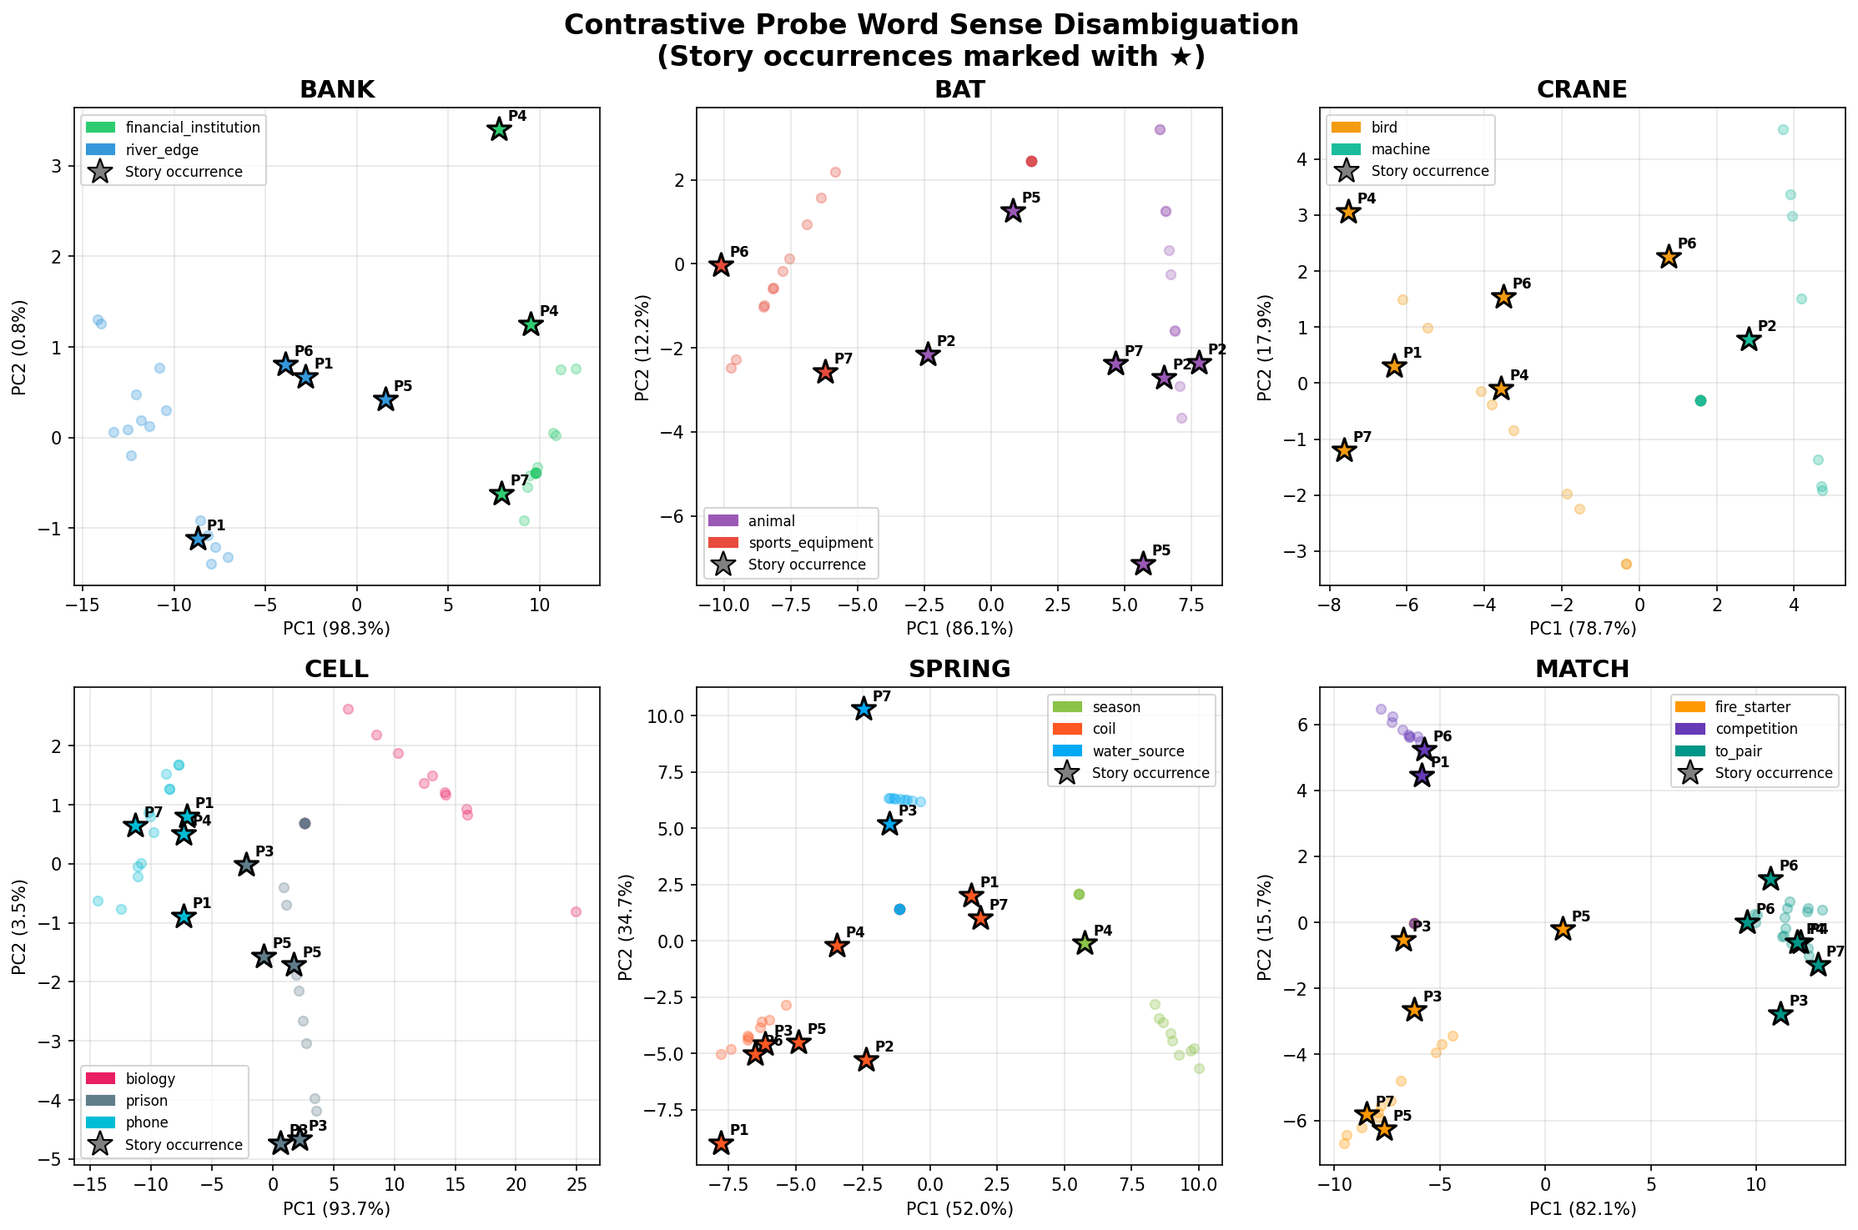
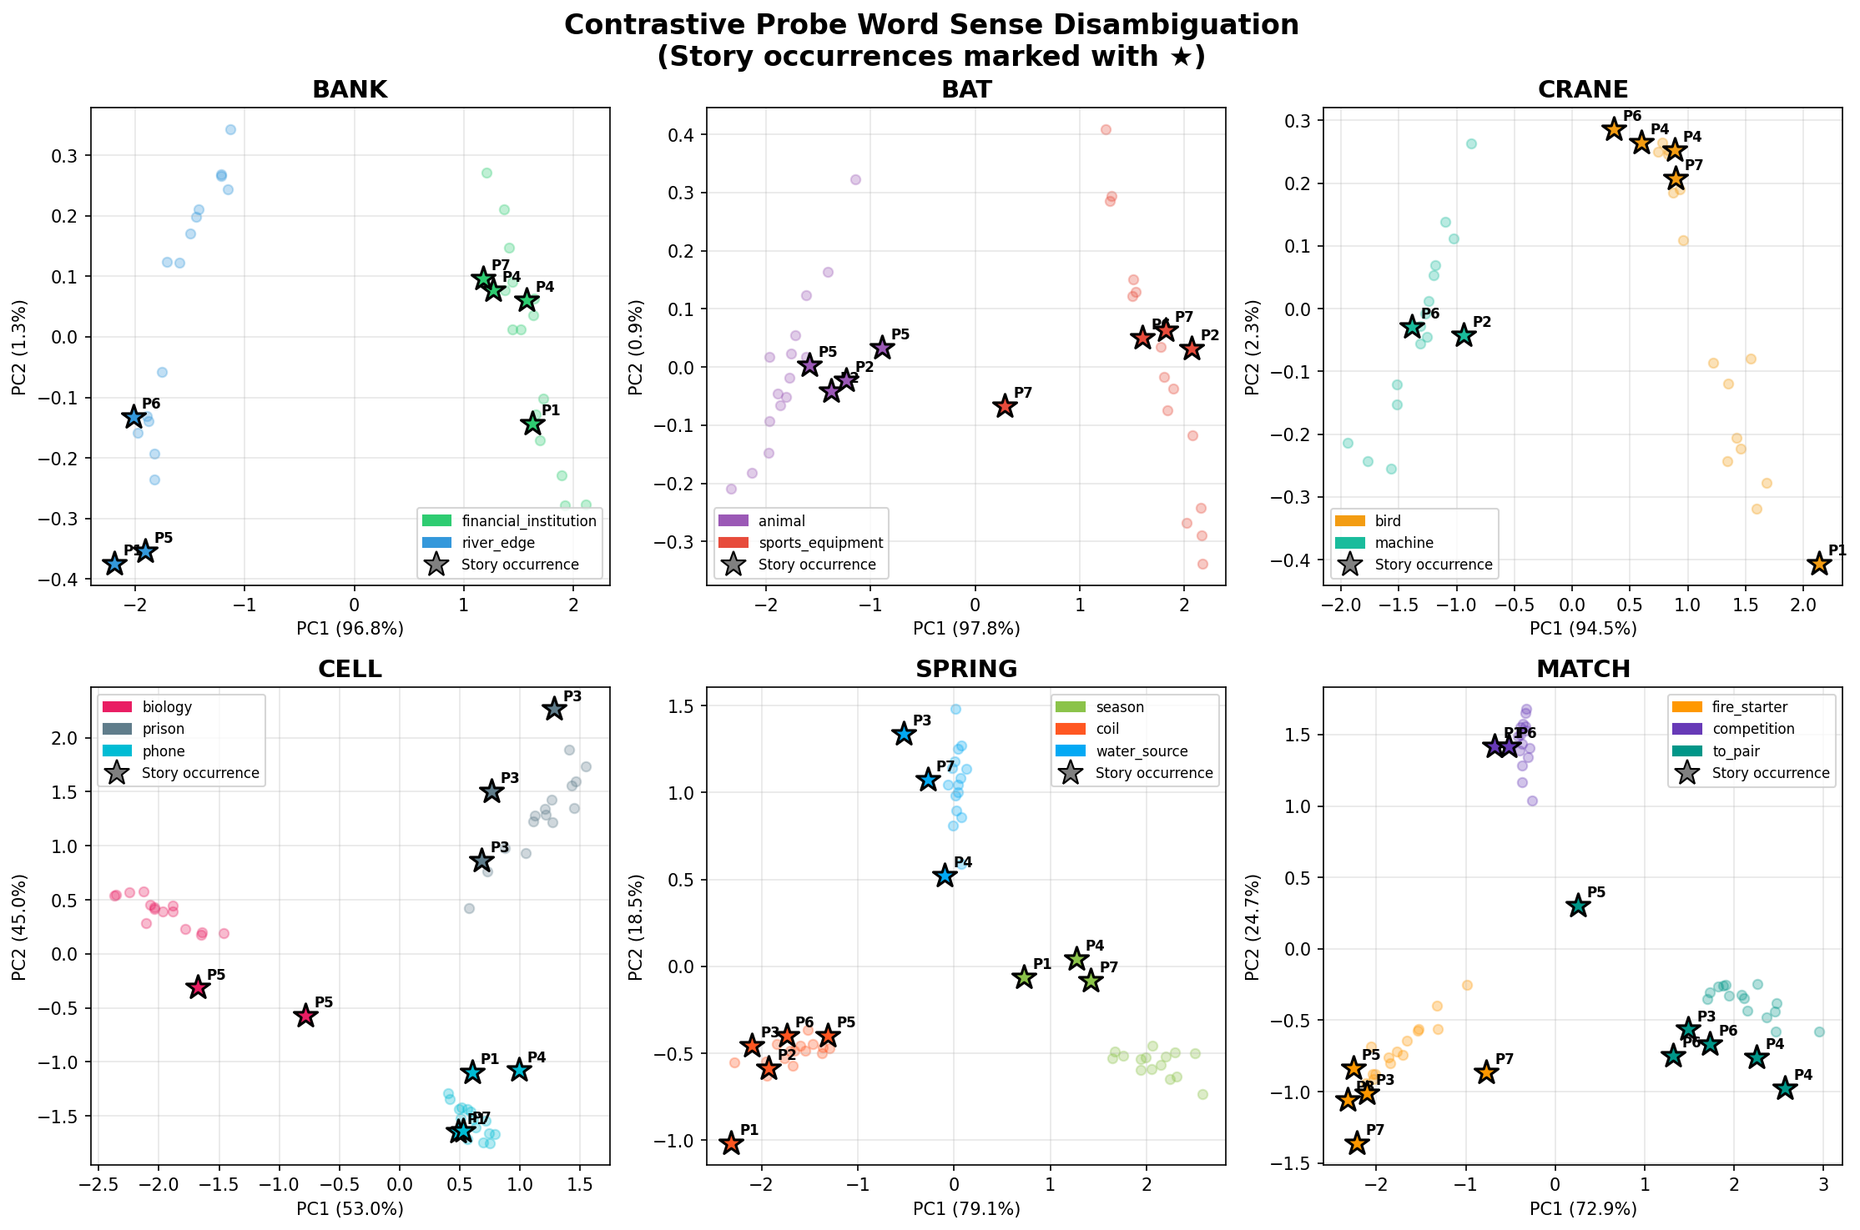
good performance with BERT

diff --git a/polysem/story_annotated.html b/polysem/story_annotated.html
@@ -20,13 +20,13 @@
 
     <div class="legend">
 <div class="legend-section"><span class="legend-title">BANK:</span><div class="legend-item"><div class="legend-color" style="background: #2ecc71"></div>financial institution</div><div class="legend-item"><div class="legend-color" style="background: #3498db"></div>river edge</div></div><div class="legend-section"><span class="legend-title">BAT:</span><div class="legend-item"><div class="legend-color" style="background: #9b59b6"></div>animal</div><div class="legend-item"><div class="legend-color" style="background: #e74c3c"></div>sports equipment</div></div><div class="legend-section"><span class="legend-title">CRANE:</span><div class="legend-item"><div class="legend-color" style="background: #f39c12"></div>bird</div><div class="legend-item"><div class="legend-color" style="background: #1abc9c"></div>machine</div></div><div class="legend-section"><span class="legend-title">CELL:</span><div class="legend-item"><div class="legend-color" style="background: #e91e63"></div>biology</div><div class="legend-item"><div class="legend-color" style="background: #607d8b"></div>prison</div><div class="legend-item"><div class="legend-color" style="background: #00bcd4"></div>phone</div></div><div class="legend-section"><span class="legend-title">SPRING:</span><div class="legend-item"><div class="legend-color" style="background: #8bc34a"></div>season</div><div class="legend-item"><div class="legend-color" style="background: #ff5722"></div>coil</div><div class="legend-item"><div class="legend-color" style="background: #03a9f4"></div>water source</div></div><div class="legend-section"><span class="legend-title">MATCH:</span><div class="legend-item"><div class="legend-color" style="background: #ff9800"></div>fire starter</div><div class="legend-item"><div class="legend-color" style="background: #673ab7"></div>competition</div><div class="legend-item"><div class="legend-color" style="background: #009688"></div>to pair</div></div></div>
-<div class="paragraph"><strong>Paragraph 1:</strong> Last <span class="word" style="background: #ff5722; color: white;" title="coil (80%)">spring</span>, I sat on the <span class="word" style="background: #3498db; color: white;" title="river_edge (100%)">bank</span> of the river watching a <span class="word" style="background: #f39c12; color: white;" title="bird (100%)">crane</span> wade through the shallows, hunting for frogs. My <span class="word" style="background: #00bcd4; color: white;" title="phone (100%)">cell</span> buzzed in my pocket—a text from my brother asking if I'd watched the tennis <span class="word" style="background: #673ab7; color: white;" title="competition (100%)">match</span> last night. I hadn't; I'd been too busy at the <span class="word" style="background: #3498db; color: white;" title="river_edge (100%)">bank</span> trying to sort out a loan for the new house. The loan officer's desk had a broken <span class="word" style="background: #ff5722; color: white;" title="coil (100%)">spring</span> in the chair, and it squeaked every time she leaned forward to check her <span class="word" style="background: #00bcd4; color: white;" title="phone (100%)">cell</span> for messages.</div>
-<div class="paragraph"><strong>Paragraph 2:</strong> The construction site next door had a massive <span class="word" style="background: #1abc9c; color: white;" title="machine (100%)">crane</span> lifting steel beams, and I remember thinking how strange it was that we use the same word for that machine and the elegant bird by the water. A <span class="word" style="background: #9b59b6; color: white;" title="animal (100%)">bat</span> swooped overhead as dusk fell—probably heading to the old barn where a whole colony of <span class="word" style="background: #9b59b6; color: white;" title="animal (100%)">bats</span> roost in the rafters. My son has a baseball <span class="word" style="background: #9b59b6; color: white;" title="animal (80%)">bat</span> signed by his favorite player; he keeps it on display and won't let anyone touch it, even though the grip has lost its <span class="word" style="background: #ff5722; color: white;" title="coil (100%)">spring</span> and the wood is starting to crack.</div>
-<div class="paragraph"><strong>Paragraph 3:</strong> I struck a <span class="word" style="background: #ff9800; color: white;" title="fire_starter (100%)">match</span> to light the campfire, but the first <span class="word" style="background: #ff9800; color: white;" title="fire_starter (80%)">match</span> was damp and wouldn't catch. The flames reminded me of a documentary about <span class="word" style="background: #607d8b; color: white;" title="prison (100%)">cell</span> division I'd watched—how a single <span class="word" style="background: #607d8b; color: white;" title="prison (100%)">cell</span> splits into two, over and over. My uncle spent three years in a prison <span class="word" style="background: #607d8b; color: white;" title="prison (100%)">cell</span> for fraud; he said the worst part was the tiny window and the broken <span class="word" style="background: #ff5722; color: white;" title="coil (100%)">spring</span> in his mattress. When he got out, the first thing he did was visit a natural <span class="word" style="background: #03a9f4; color: white;" title="water_source (100%)">spring</span> in the mountains, filling bottles with cold water that didn't <span class="word" style="background: #009688; color: white;" title="to_pair (100%)">match</span> the metallic taste of prison taps.</div>
-<div class="paragraph"><strong>Paragraph 4:</strong> The curtains in my office don't <span class="word" style="background: #009688; color: white;" title="to_pair (100%)">match</span> the carpet—my wife keeps reminding me. She works at a <span class="word" style="background: #2ecc71; color: white;" title="financial_institution (100%)">bank</span> downtown, the same <span class="word" style="background: #2ecc71; color: white;" title="financial_institution (100%)">bank</span> where we first met. There's a <span class="word" style="background: #ff5722; color: white;" title="coil (80%)">spring</span>-fed pond behind her building where <span class="word" style="background: #f39c12; color: white;" title="bird (100%)">cranes</span> gather in the <span class="word" style="background: #8bc34a; color: white;" title="season (100%)">spring</span>, and sometimes she sends me photos from her <span class="word" style="background: #00bcd4; color: white;" title="phone (100%)">cell</span>. I keep telling her the pictures don't <span class="word" style="background: #009688; color: white;" title="to_pair (100%)">match</span> the real thing; you have to see a <span class="word" style="background: #f39c12; color: white;" title="bird (100%)">crane</span> take flight to understand how beautiful they are.</div>
-<div class="paragraph"><strong>Paragraph 5:</strong> My daughter's science project is about <span class="word" style="background: #9b59b6; color: white;" title="animal (80%)">bat</span> echolocation—how <span class="word" style="background: #9b59b6; color: white;" title="animal (100%)">bats</span> navigate using sound. She built a model <span class="word" style="background: #607d8b; color: white;" title="prison (100%)">cell</span> with a <span class="word" style="background: #ff5722; color: white;" title="coil (100%)">spring</span>-loaded mechanism that demonstrates how <span class="word" style="background: #607d8b; color: white;" title="prison (100%)">cell</span> membranes work. Her teacher said it was the best in the class, a perfect <span class="word" style="background: #ff9800; color: white;" title="fire_starter (80%)">match</span> of creativity and accuracy. We celebrated by going to the <span class="word" style="background: #3498db; color: white;" title="river_edge (100%)">bank</span> of the lake where we watched the sunset, and I taught her how to safely light a <span class="word" style="background: #ff9800; color: white;" title="fire_starter (100%)">match</span> for the first time.</div>
-<div class="paragraph"><strong>Paragraph 6:</strong> The championship <span class="word" style="background: #673ab7; color: white;" title="competition (100%)">match</span> is tomorrow, and the team has been practicing their <span class="word" style="background: #e74c3c; color: white;" title="sports_equipment (100%)">bat</span> swings all week. The coach says their timing doesn't <span class="word" style="background: #009688; color: white;" title="to_pair (100%)">match</span> what it needs to be, so they've installed a machine that uses a <span class="word" style="background: #ff5722; color: white;" title="coil (100%)">spring</span> to launch balls at different speeds. Meanwhile, a <span class="word" style="background: #f39c12; color: white;" title="bird (80%)">crane</span> has been brought in to install new lights at the stadium—the old ones didn't <span class="word" style="background: #009688; color: white;" title="to_pair (100%)">match</span> safety codes. I watched from across the <span class="word" style="background: #3498db; color: white;" title="river_edge (100%)">bank</span> of the creek that runs behind the field, where I spotted a <span class="word" style="background: #f39c12; color: white;" title="bird (100%)">crane</span> standing perfectly still in the water.</div>
-<div class="paragraph"><strong>Paragraph 7:</strong> My <span class="word" style="background: #00bcd4; color: white;" title="phone (100%)">cell</span> battery died just as I got the notification that our offer on the house was accepted by the <span class="word" style="background: #2ecc71; color: white;" title="financial_institution (100%)">bank</span>. I had to borrow a <span class="word" style="background: #ff9800; color: white;" title="fire_starter (100%)">match</span> from a stranger to see my way back to the car in the dark. A <span class="word" style="background: #9b59b6; color: white;" title="animal (100%)">bat</span> flew past my head, startling me so badly I nearly dropped my son's <span class="word" style="background: #e74c3c; color: white;" title="sports_equipment (100%)">bat</span> that I'd been carrying from practice. Next <span class="word" style="background: #ff5722; color: white;" title="coil (80%)">spring</span>, we'll be living in that house, drinking water from the natural <span class="word" style="background: #03a9f4; color: white;" title="water_source (100%)">spring</span> in the backyard, watching <span class="word" style="background: #f39c12; color: white;" title="bird (100%)">cranes</span> fly overhead, and maybe finally getting furniture that actually <span class="word" style="background: #009688; color: white;" title="to_pair (100%)">matches</span>.</div>
+<div class="paragraph"><strong>Paragraph 1:</strong> Last <span class="word" style="background: #8bc34a; color: white;" title="season (100%)">spring</span>, I sat on the <span class="word" style="background: #3498db; color: white;" title="river_edge (100%)">bank</span> of the river watching a <span class="word" style="background: #f39c12; color: white;" title="bird (100%)">crane</span> wade through the shallows, hunting for frogs. My <span class="word" style="background: #00bcd4; color: white;" title="phone (100%)">cell</span> buzzed in my pocket—a text from my brother asking if I'd watched the tennis <span class="word" style="background: #673ab7; color: white;" title="competition (100%)">match</span> last night. I hadn't; I'd been too busy at the <span class="word" style="background: #2ecc71; color: white;" title="financial_institution (100%)">bank</span> trying to sort out a loan for the new house. The loan officer's desk had a broken <span class="word" style="background: #ff5722; color: white;" title="coil (100%)">spring</span> in the chair, and it squeaked every time she leaned forward to check her <span class="word" style="background: #00bcd4; color: white;" title="phone (100%)">cell</span> for messages.</div>
+<div class="paragraph"><strong>Paragraph 2:</strong> The construction site next door had a massive <span class="word" style="background: #1abc9c; color: white;" title="machine (100%)">crane</span> lifting steel beams, and I remember thinking how strange it was that we use the same word for that machine and the elegant bird by the water. A <span class="word" style="background: #9b59b6; color: white;" title="animal (100%)">bat</span> swooped overhead as dusk fell—probably heading to the old barn where a whole colony of <span class="word" style="background: #9b59b6; color: white;" title="animal (100%)">bats</span> roost in the rafters. My son has a baseball <span class="word" style="background: #e74c3c; color: white;" title="sports_equipment (100%)">bat</span> signed by his favorite player; he keeps it on display and won't let anyone touch it, even though the grip has lost its <span class="word" style="background: #ff5722; color: white;" title="coil (100%)">spring</span> and the wood is starting to crack.</div>
+<div class="paragraph"><strong>Paragraph 3:</strong> I struck a <span class="word" style="background: #ff9800; color: white;" title="fire_starter (100%)">match</span> to light the campfire, but the first <span class="word" style="background: #ff9800; color: white;" title="fire_starter (100%)">match</span> was damp and wouldn't catch. The flames reminded me of a documentary about <span class="word" style="background: #607d8b; color: white;" title="prison (100%)">cell</span> division I'd watched—how a single <span class="word" style="background: #607d8b; color: white;" title="prison (100%)">cell</span> splits into two, over and over. My uncle spent three years in a prison <span class="word" style="background: #607d8b; color: white;" title="prison (100%)">cell</span> for fraud; he said the worst part was the tiny window and the broken <span class="word" style="background: #ff5722; color: white;" title="coil (100%)">spring</span> in his mattress. When he got out, the first thing he did was visit a natural <span class="word" style="background: #03a9f4; color: white;" title="water_source (100%)">spring</span> in the mountains, filling bottles with cold water that didn't <span class="word" style="background: #009688; color: white;" title="to_pair (100%)">match</span> the metallic taste of prison taps.</div>
+<div class="paragraph"><strong>Paragraph 4:</strong> The curtains in my office don't <span class="word" style="background: #009688; color: white;" title="to_pair (100%)">match</span> the carpet—my wife keeps reminding me. She works at a <span class="word" style="background: #2ecc71; color: white;" title="financial_institution (100%)">bank</span> downtown, the same <span class="word" style="background: #2ecc71; color: white;" title="financial_institution (100%)">bank</span> where we first met. There's a <span class="word" style="background: #03a9f4; color: white;" title="water_source (100%)">spring</span>-fed pond behind her building where <span class="word" style="background: #f39c12; color: white;" title="bird (100%)">cranes</span> gather in the <span class="word" style="background: #8bc34a; color: white;" title="season (100%)">spring</span>, and sometimes she sends me photos from her <span class="word" style="background: #00bcd4; color: white;" title="phone (100%)">cell</span>. I keep telling her the pictures don't <span class="word" style="background: #009688; color: white;" title="to_pair (100%)">match</span> the real thing; you have to see a <span class="word" style="background: #f39c12; color: white;" title="bird (100%)">crane</span> take flight to understand how beautiful they are.</div>
+<div class="paragraph"><strong>Paragraph 5:</strong> My daughter's science project is about <span class="word" style="background: #9b59b6; color: white;" title="animal (100%)">bat</span> echolocation—how <span class="word" style="background: #9b59b6; color: white;" title="animal (100%)">bats</span> navigate using sound. She built a model <span class="word" style="background: #e91e63; color: white;" title="biology (100%)">cell</span> with a <span class="word" style="background: #ff5722; color: white;" title="coil (100%)">spring</span>-loaded mechanism that demonstrates how <span class="word" style="background: #e91e63; color: white;" title="biology (100%)">cell</span> membranes work. Her teacher said it was the best in the class, a perfect <span class="word" style="background: #009688; color: white;" title="to_pair (100%)">match</span> of creativity and accuracy. We celebrated by going to the <span class="word" style="background: #3498db; color: white;" title="river_edge (100%)">bank</span> of the lake where we watched the sunset, and I taught her how to safely light a <span class="word" style="background: #ff9800; color: white;" title="fire_starter (100%)">match</span> for the first time.</div>
+<div class="paragraph"><strong>Paragraph 6:</strong> The championship <span class="word" style="background: #673ab7; color: white;" title="competition (100%)">match</span> is tomorrow, and the team has been practicing their <span class="word" style="background: #e74c3c; color: white;" title="sports_equipment (100%)">bat</span> swings all week. The coach says their timing doesn't <span class="word" style="background: #009688; color: white;" title="to_pair (100%)">match</span> what it needs to be, so they've installed a machine that uses a <span class="word" style="background: #ff5722; color: white;" title="coil (100%)">spring</span> to launch balls at different speeds. Meanwhile, a <span class="word" style="background: #1abc9c; color: white;" title="machine (100%)">crane</span> has been brought in to install new lights at the stadium—the old ones didn't <span class="word" style="background: #009688; color: white;" title="to_pair (100%)">match</span> safety codes. I watched from across the <span class="word" style="background: #3498db; color: white;" title="river_edge (100%)">bank</span> of the creek that runs behind the field, where I spotted a <span class="word" style="background: #f39c12; color: white;" title="bird (100%)">crane</span> standing perfectly still in the water.</div>
+<div class="paragraph"><strong>Paragraph 7:</strong> My <span class="word" style="background: #00bcd4; color: white;" title="phone (100%)">cell</span> battery died just as I got the notification that our offer on the house was accepted by the <span class="word" style="background: #2ecc71; color: white;" title="financial_institution (100%)">bank</span>. I had to borrow a <span class="word" style="background: #ff9800; color: white;" title="fire_starter (100%)">match</span> from a stranger to see my way back to the car in the dark. A <span class="word" style="background: #e74c3c; color: white;" title="sports_equipment (100%)">bat</span> flew past my head, startling me so badly I nearly dropped my son's <span class="word" style="background: #e74c3c; color: white;" title="sports_equipment (100%)">bat</span> that I'd been carrying from practice. Next <span class="word" style="background: #8bc34a; color: white;" title="season (100%)">spring</span>, we'll be living in that house, drinking water from the natural <span class="word" style="background: #03a9f4; color: white;" title="water_source (100%)">spring</span> in the backyard, watching <span class="word" style="background: #f39c12; color: white;" title="bird (100%)">cranes</span> fly overhead, and maybe finally getting furniture that actually <span class="word" style="background: #ff9800; color: white;" title="fire_starter (100%)">matches</span>.</div>
 
 </body>
 </html>

diff --git a/polysem/visualize_story.py b/polysem/visualize_story.py
@@ -479,14 +479,17 @@ def print_predictions_summary(occurrences: List[WordOccurrence]):
 
 def main():
     from transformers import AutoModel, AutoTokenizer
+    import sys
 
     print("="*70)
     print("STORY WORD SENSE VISUALIZATION")
     print("="*70)
 
-    # Load model
+    # Load model - use bidirectional model for proper context
     print("\nLoading model...")
-    model_name = "gpt2"
+    # GPT-2 is causal (only sees left context) - bad for WSD!
+    # BERT/RoBERTa are bidirectional (sees both sides) - much better
+    model_name = "roberta-base"  # bidirectional, sees full context
     tokenizer = AutoTokenizer.from_pretrained(model_name)
     model = AutoModel.from_pretrained(model_name)
 
